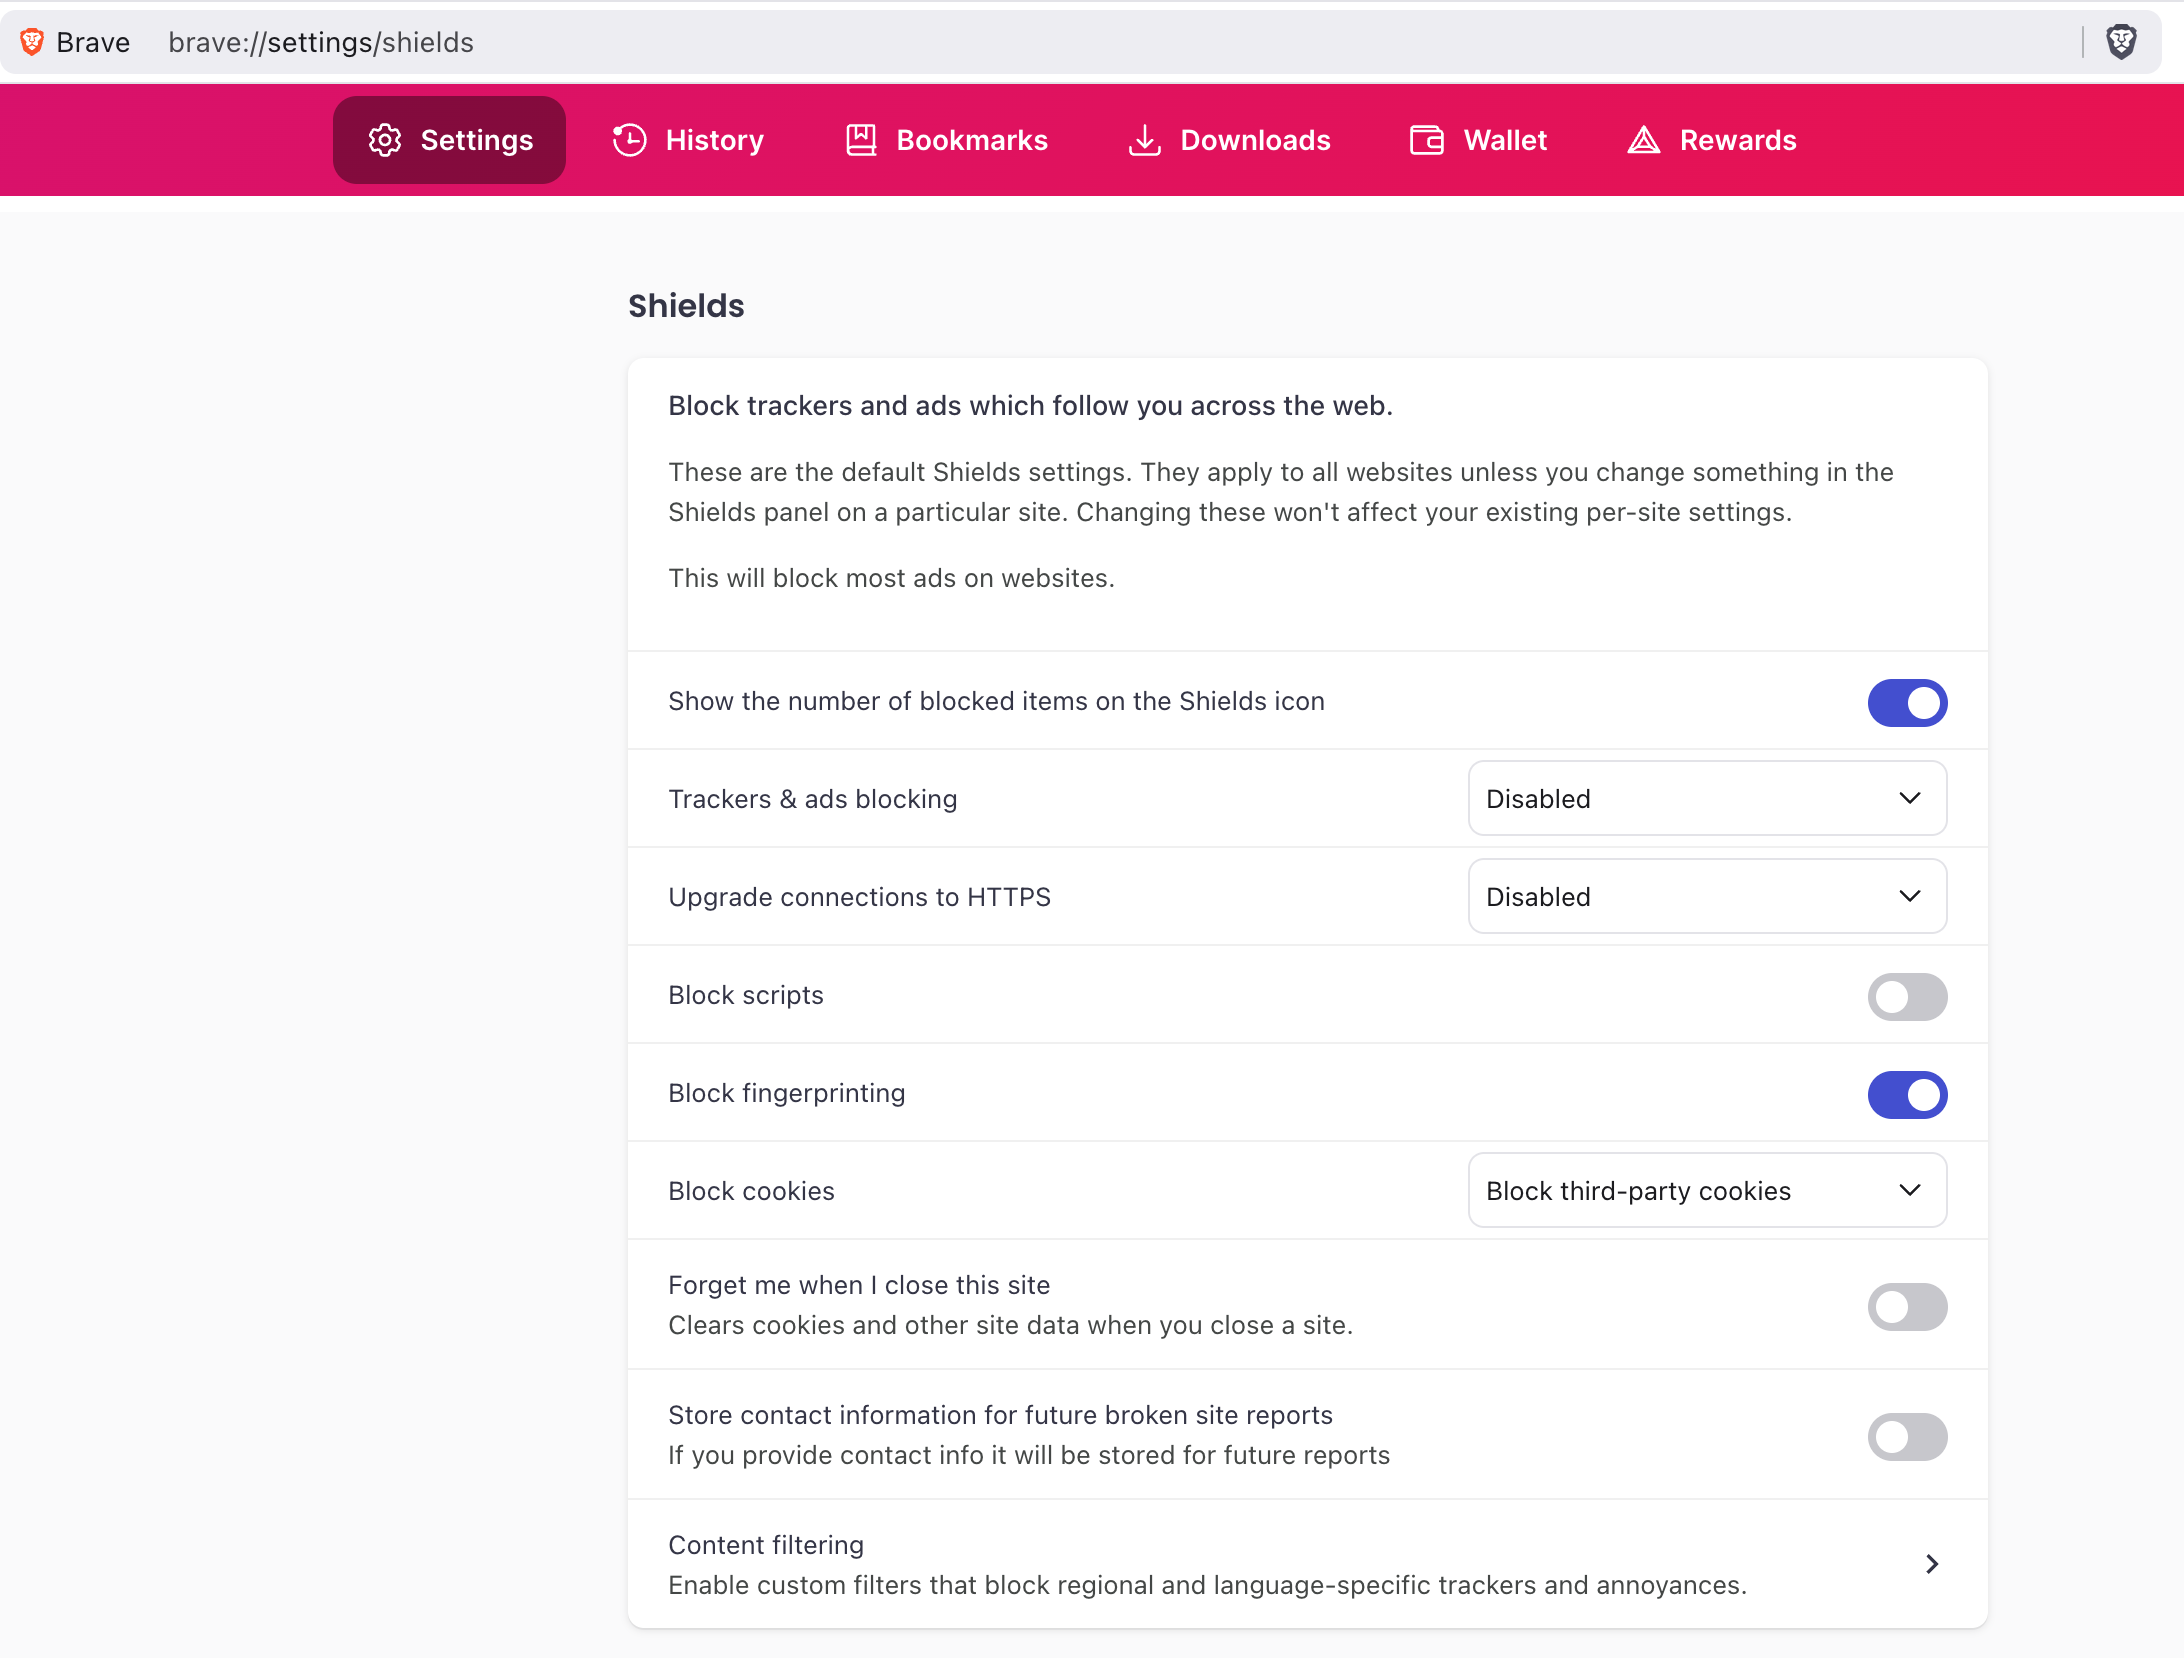
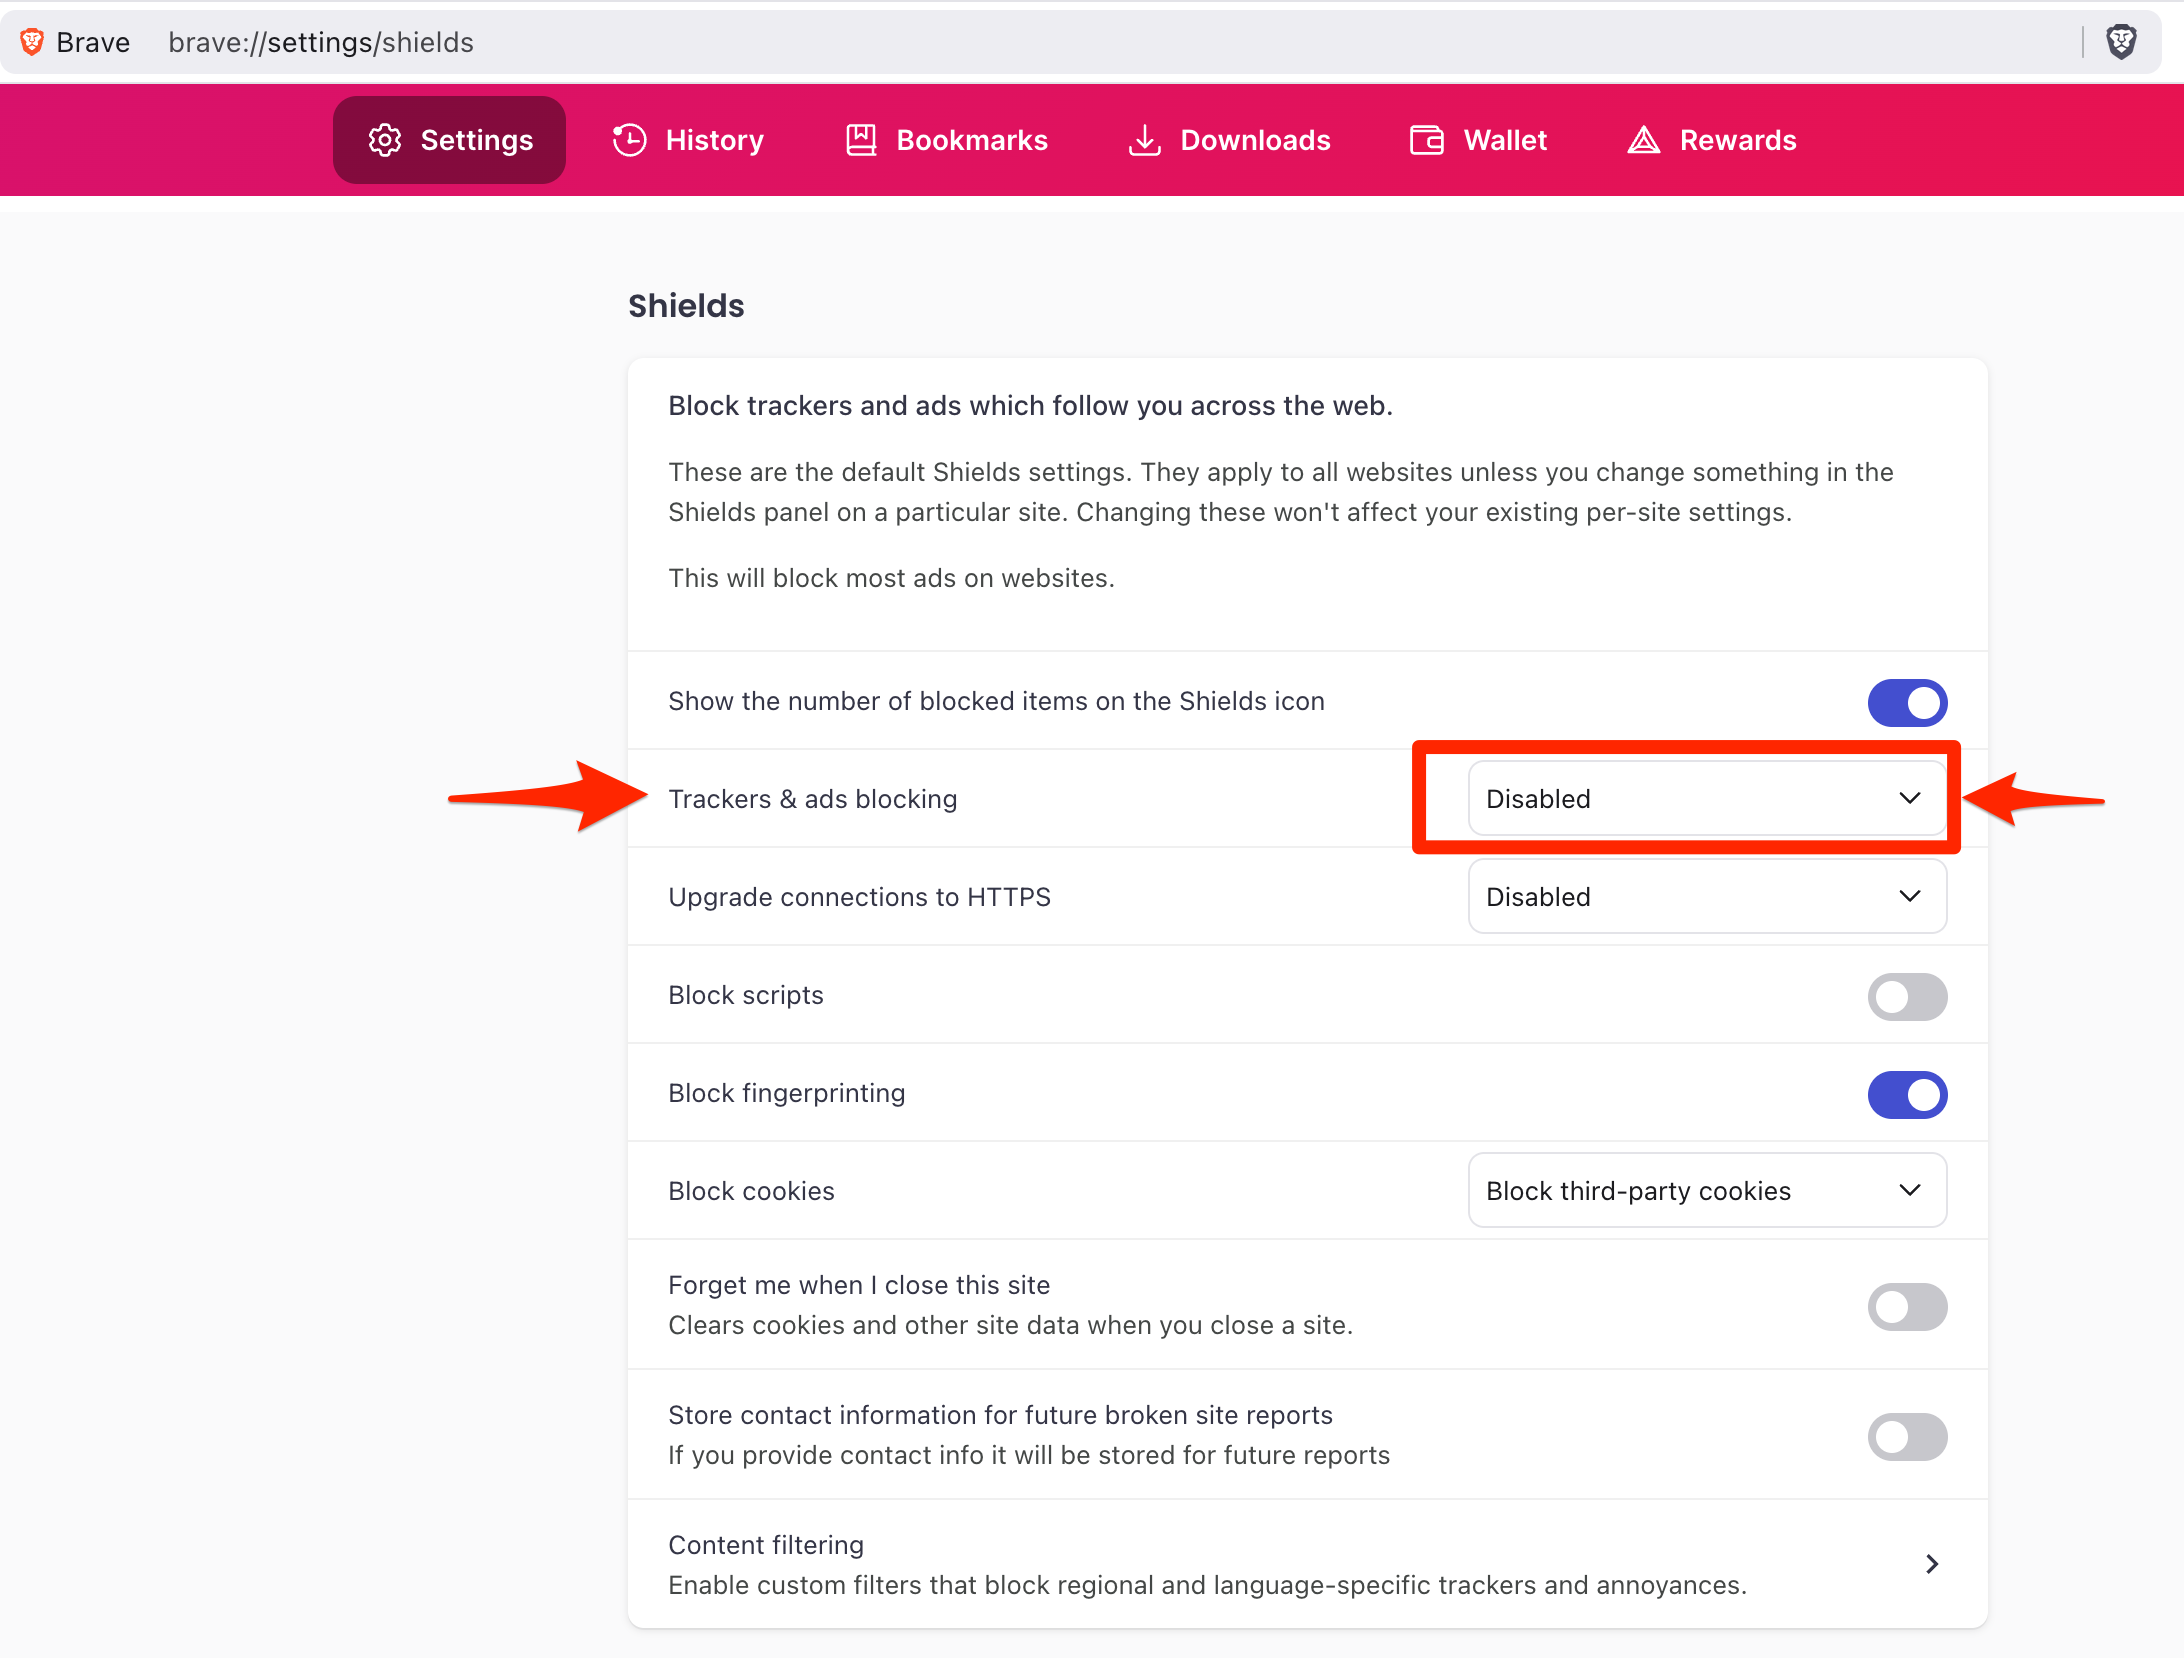
Update browser-related settings/documentation

Changed region(s): [[0.6227, 0.4306, 0.9652, 0.5229], [0.2179, 0.4614, 0.3114, 0.4922]]

diff --git a/README.md b/README.md
@@ -25,4 +25,18 @@ Open the browser:
 open http://localhost:8787/dev/htsget/htsget.html
 ```
 
+## Browser config
+
+Even if CORS is effectively disabled at the server level in this configuration's repo (see `compose.yml`'s **environment** directive for details),
+some browsers will required a bit of settings tweaking, namely:
+
+* **Firefox** will work right away :D
+* Safari will currently not work due to restrictions around the use of [0.0.0.0][0.0.0.0-day].
+
+![safari](./doc/safari_0.0.0.0_error.png)
+* Brave will only work if its implicit Ad-blocking system is disabled.
+![brave](./doc/brave_blocking_adblocker.png)
+![brave](./doc/brave_no_block.png)
+
 [htsget-deploy]: https://github.com/umccr/htsget-deploy
+[0.0.0.0-day]: https://www.oligo.security/blog/0-0-0-0-day-exploiting-localhost-apis-from-the-browser
